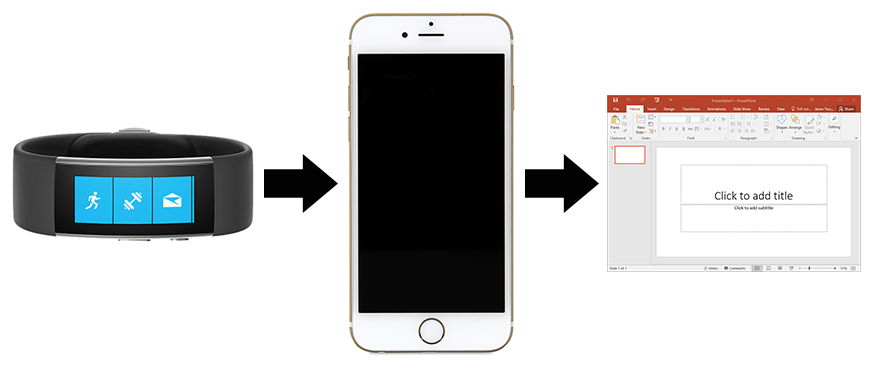
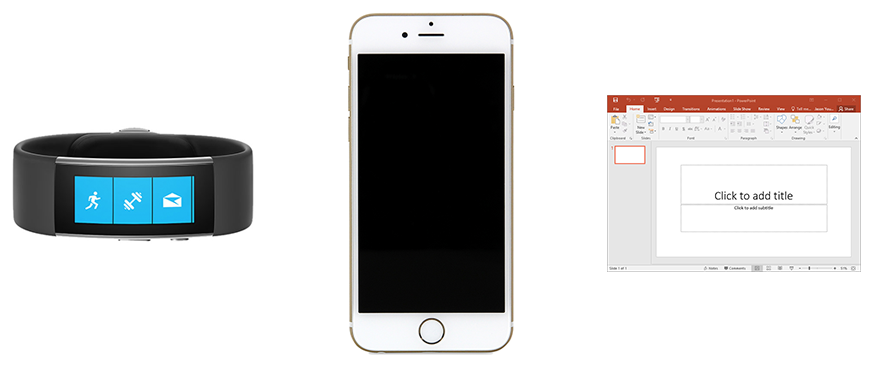
Added band connection and animated status

Changed region(s): [[0.5843, 0.4185, 0.6765, 0.5679], [0.2768, 0.4185, 0.3998, 0.5679]]

diff --git a/BandPowerPointRemote.iOS/Arrow.cs b/BandPowerPointRemote.iOS/Arrow.cs
@@ -1,0 +1,76 @@
+using System;
+using System.ComponentModel;
+
+using Foundation;
+using UIKit;
+using CoreGraphics;
+using CoreAnimation;
+
+namespace BandPowerPointRemote.iOS
+{
+	[Register("Arrow"), DesignTimeVisible(true)]
+	public class Arrow : UIView
+	{
+		public Arrow (IntPtr p) : base(p)
+		{
+			BackgroundColor = UIColor.Clear;
+
+			SetConnectionStatus (BandPowerPointRemote.iOS.Band.ConnectionState.NotConnected);
+		}
+
+		public override void Draw (CGRect rect)
+		{
+			base.Draw (rect);
+
+			var gctx = UIGraphics.GetCurrentContext ();
+
+			// setting blend mode to clear and filling with
+			// a clear color results in a transparent fill
+			gctx.SetFillColor (UIColor.Clear.CGColor);
+			gctx.FillRect (rect);
+
+			//gctx.SetBlendMode (CGBlendMode.Clear);
+			UIColor.Black.SetColor ();
+
+			// create some cutout geometry
+			var path = new CGPath ();   
+			path.AddLines(new CGPoint[]{
+				new CGPoint(0,rect.Height * (1.0/4.0)),
+				new CGPoint(rect.Width * (3.0/5.0),rect.Height * (1.0/4.0)),
+				new CGPoint(rect.Width * (3.0/5.0),0),
+				new CGPoint(rect.Width,rect.Height / 2),
+				new CGPoint(rect.Width * (3.0/5.0), rect.Height),
+				new CGPoint(rect.Width * (3.0/5.0),rect.Height * (3.0/4.0)),
+				new CGPoint(0, rect.Height * (3.0/4.0))
+			}); 
+			path.CloseSubpath();
+
+			gctx.AddPath(path);
+			gctx.DrawPath(CGPathDrawingMode.Fill);  
+		}
+
+		private void Flash()
+		{
+			UIView.AnimationsEnabled = true;
+
+			this.Layer.Opacity = 1;
+			UIView.Animate (1, 0, UIViewAnimationOptions.Autoreverse | UIViewAnimationOptions.Repeat, () => {
+				this.Layer.Opacity = 0;
+			}, null);
+
+		}
+
+		public void SetConnectionStatus(Band.ConnectionState newState)
+		{
+			if (newState == BandPowerPointRemote.iOS.Band.ConnectionState.Connecting) {
+				Flash ();
+			} else if (newState == BandPowerPointRemote.iOS.Band.ConnectionState.NotConnected) {
+				UIView.AnimationsEnabled = false;
+				this.Layer.Opacity = 0;
+			} else if (newState == BandPowerPointRemote.iOS.Band.ConnectionState.Connected) {
+				this.Layer.Opacity = 1;
+			}
+		}
+	}
+}
+

diff --git a/BandPowerPointRemote.iOS/Band/Band.cs b/BandPowerPointRemote.iOS/Band/Band.cs
@@ -1,0 +1,75 @@
+using System;
+using System.Linq;
+
+using Microsoft.Band;
+
+namespace BandPowerPointRemote.iOS.Band
+{
+	public class Band
+	{
+		private BandClientManager manager;
+		private BandClient client;
+		//private AccelerometerSensor accelerometer;
+		//private bool sensorStarted;
+
+		public ConnectionState ConnectionState { get; private set; }
+
+		public event EventHandler<ConnectionStateChangedEventArgs> ConnectionStateChanged;
+
+		public Band ()
+		{
+			SetConnectionState(ConnectionState.NotConnected);
+
+			manager =  BandClientManager.Instance;
+			manager.Connected += (sender, e) => {
+				SetConnectionState(ConnectionState.Connected);
+
+				Console.WriteLine("Connected");
+			};
+			manager.Disconnected += (sender, e) => {
+				SetConnectionState(ConnectionState.NotConnected);
+				Console.WriteLine("Disconnected");
+			};
+		}
+
+		private void SetConnectionState(ConnectionState state)
+		{
+			ConnectionState = state;
+			RaiseConnectionStateChangeEvent ();
+		}
+
+		private void RaiseConnectionStateChangeEvent()
+		{
+			var e = ConnectionStateChanged;
+			if(e != null)
+			{
+				e(this, new ConnectionStateChangedEventArgs(ConnectionState));
+			}
+		}
+
+		public async void StartConnecting()
+		{
+			if (client != null) {
+				return;
+			}
+
+			// get the client
+			client = manager.AttachedClients.FirstOrDefault ();
+
+			if (client == null) {
+				Console.WriteLine ("Failed! No Bands attached.");
+			} else {
+				try {
+					SetConnectionState(ConnectionState.Connecting);
+
+					Console.WriteLine ("Please wait. Connecting to Band...");
+					await manager.ConnectTaskAsync (client);
+				} catch (BandException ex) {
+					Console.WriteLine ("Failed to connect to Band:");
+					Console.WriteLine (ex.Message);
+				}
+			}
+		}
+	}
+}
+

diff --git a/BandPowerPointRemote.iOS/ViewController.designer.cs b/BandPowerPointRemote.iOS/ViewController.designer.cs
@@ -18,6 +18,18 @@ namespace BandPowerPointRemote.iOS
 		[GeneratedCode ("iOS Designer", "1.0")]
 		UITextField AccessCodeTextBox { get; set; }
 
+		[Outlet]
+		[GeneratedCode ("iOS Designer", "1.0")]
+		Arrow BandConnectionArrow { get; set; }
+
+		[Outlet]
+		[GeneratedCode ("iOS Designer", "1.0")]
+		UILabel bandStatusLabel { get; set; }
+
+		[Outlet]
+		[GeneratedCode ("iOS Designer", "1.0")]
+		Arrow PptConnectionArrow { get; set; }
+
 		[Action ("ConnectToServerButton_TouchUpInside:")]
 		[GeneratedCode ("iOS Designer", "1.0")]
 		partial void ConnectToServerButton_TouchUpInside (UIButton sender);
@@ -27,6 +39,18 @@ namespace BandPowerPointRemote.iOS
 			if (AccessCodeTextBox != null) {
 				AccessCodeTextBox.Dispose ();
 				AccessCodeTextBox = null;
+			}
+			if (BandConnectionArrow != null) {
+				BandConnectionArrow.Dispose ();
+				BandConnectionArrow = null;
+			}
+			if (bandStatusLabel != null) {
+				bandStatusLabel.Dispose ();
+				bandStatusLabel = null;
+			}
+			if (PptConnectionArrow != null) {
+				PptConnectionArrow.Dispose ();
+				PptConnectionArrow = null;
 			}
 		}
 	}

diff --git a/BandPowerPointRemote.iOS/ViewController.cs b/BandPowerPointRemote.iOS/ViewController.cs
@@ -6,6 +6,8 @@ namespace BandPowerPointRemote.iOS
 {
 	public partial class ViewController : UIViewController
 	{
+		private Band.Band _band;
+
 		public ViewController (IntPtr handle) : base (handle)
 		{
 		}
@@ -13,13 +15,25 @@ namespace BandPowerPointRemote.iOS
 		public override void ViewDidLoad ()
 		{
 			base.ViewDidLoad ();
-			// Perform any additional setup after loading the view, typically from a nib.
+
+			this.ConnectToBand ();
 		}
 
 		public override void DidReceiveMemoryWarning ()
 		{
 			base.DidReceiveMemoryWarning ();
 			// Release any cached data, images, etc that aren't in use.
+		}
+
+		private void ConnectToBand() {
+			_band = new Band.Band();
+			_band.ConnectionStateChanged += (s, e) => {
+				bandStatusLabel.Text = e.NewState.ToString();
+
+				BandConnectionArrow.SetConnectionStatus(e.NewState);
+
+			};
+			_band.StartConnecting();
 		}
 
 		partial void ConnectToServerButton_TouchUpInside (UIButton sender)

diff --git a/BandPowerPointRemote.iOS/Arrow.designer.cs b/BandPowerPointRemote.iOS/Arrow.designer.cs
@@ -1,0 +1,21 @@
+// WARNING
+//
+// This file has been generated automatically by Xamarin Studio from the outlets and
+// actions declared in your storyboard file.
+// Manual changes to this file will not be maintained.
+//
+using Foundation;
+using System;
+using System.CodeDom.Compiler;
+using UIKit;
+
+namespace BandPowerPointRemote.iOS
+{
+	[Register ("Arrow")]
+	partial class Arrow
+	{
+		void ReleaseDesignerOutlets ()
+		{
+		}
+	}
+}

diff --git a/BandPowerPointRemote.iOS/Band/ConnectionStateChangedEventArgs.cs b/BandPowerPointRemote.iOS/Band/ConnectionStateChangedEventArgs.cs
@@ -1,0 +1,15 @@
+using System;
+
+namespace BandPowerPointRemote.iOS.Band
+{
+	public class ConnectionStateChangedEventArgs : EventArgs
+	{
+		public ConnectionState NewState { get; private set; }
+
+		public ConnectionStateChangedEventArgs (ConnectionState newState)
+		{
+			this.NewState = newState;
+		}
+	}
+}
+

diff --git a/BandPowerPointRemote.iOS/Band/ConnectionState.cs b/BandPowerPointRemote.iOS/Band/ConnectionState.cs
@@ -1,0 +1,12 @@
+using System;
+
+namespace BandPowerPointRemote.iOS.Band
+{
+	public enum ConnectionState
+	{
+		NotConnected,
+		Connecting,
+		Connected
+	}
+}
+
